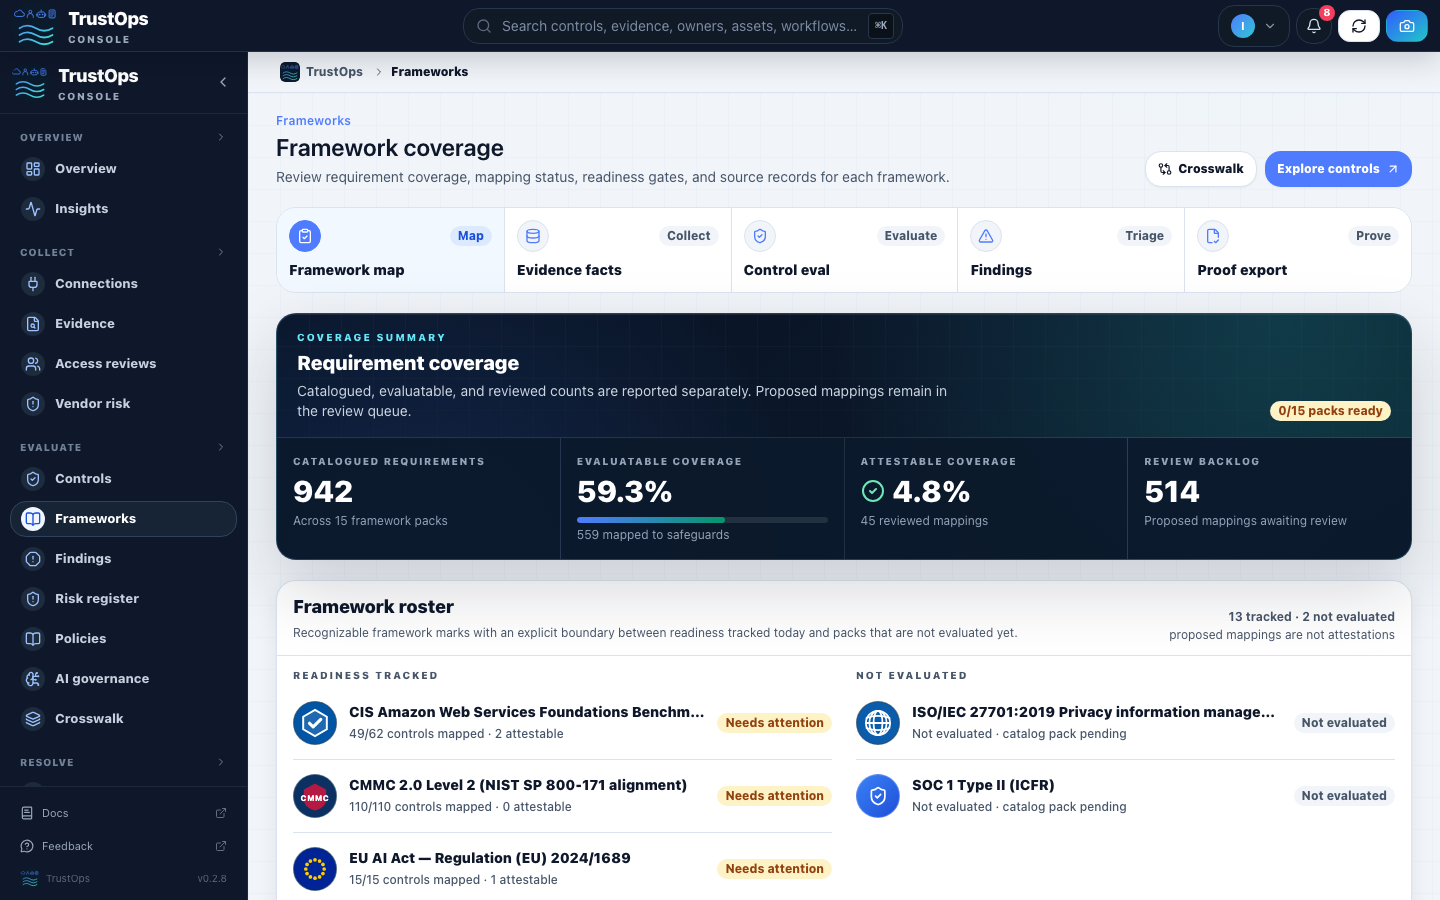
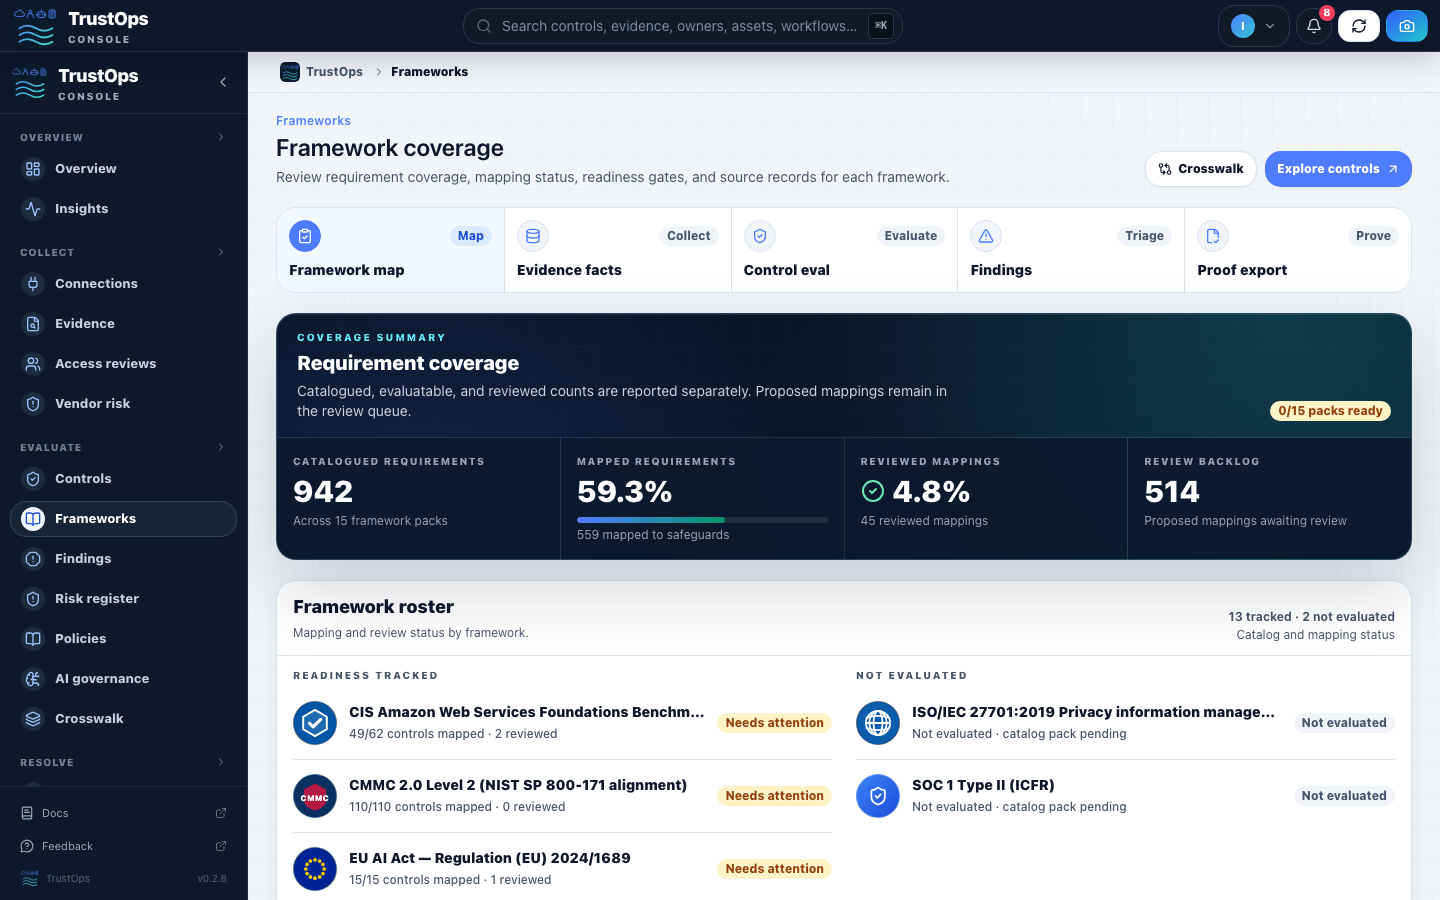
fix: align framework labels and offline smoke verification

diff --git a/app/web/src/app/frameworks/page.tsx b/app/web/src/app/frameworks/page.tsx
@@ -112,7 +112,7 @@ function Row({
       <div className="grid gap-3">
         <div>
           <div className="flex items-center justify-between gap-3 text-xs">
-            <span className="font-black text-ink">Evaluatable</span>
+            <span className="font-black text-ink">Mapped</span>
             <span className="text-muted">
               <b className="text-ink">{evaluatablePct}%</b> · {evaluatableCount}
               /{seededCount}
@@ -127,7 +127,7 @@ function Row({
         </div>
         <div>
           <div className="flex items-center justify-between gap-3 text-xs">
-            <span className="font-black text-ink">Attestable</span>
+            <span className="font-black text-ink">Reviewed</span>
             <span className="text-muted">
               <b className="text-ink">{attestablePct}%</b> · {attestableCount}/
               {seededCount}
@@ -574,7 +574,7 @@ function FrameworksPageContent() {
           </div>
           <div className="bg-[#09182a]/95 p-4">
             <div className="text-[10px] font-black uppercase tracking-[0.14em] text-slate-400">
-              Evaluatable coverage
+              Mapped requirements
             </div>
             <div className="mt-1 text-3xl font-black text-white">
               {coverageSummary
@@ -596,7 +596,7 @@ function FrameworksPageContent() {
           </div>
           <div className="bg-[#09182a]/95 p-4">
             <div className="text-[10px] font-black uppercase tracking-[0.14em] text-slate-400">
-              Attestable coverage
+              Reviewed mappings
             </div>
             <div className="mt-1 flex items-center gap-2 text-3xl font-black text-white">
               <CheckCircle2 className="h-6 w-6 text-emerald-300" />

diff --git a/app/web/src/components/framework/FrameworkRoster.tsx b/app/web/src/components/framework/FrameworkRoster.tsx
@@ -45,7 +45,7 @@ function FrameworkLine({
         <div className="mt-0.5 truncate text-xs font-medium leading-5 text-slate-600">
           {notEvaluated
             ? `Not evaluated · ${total ? `${total} controls in catalog` : "catalog pack pending"}`
-            : `${mapped}/${total} controls mapped · ${attestable} attestable`}
+            : `${mapped}/${total} controls mapped · ${attestable} reviewed`}
         </div>
       </div>
       <Badge
@@ -85,17 +85,14 @@ export function FrameworkRoster({ frameworks, coverage, readiness }: Props) {
         <div>
           <h2 className="text-lg font-black text-ink">Framework roster</h2>
           <p className="mt-0.5 max-w-3xl text-xs leading-5 text-muted">
-            Recognizable framework marks with an explicit boundary between
-            readiness tracked today and packs that are not evaluated yet.
+            Mapping and review status by framework.
           </p>
         </div>
         <div className="text-right text-xs font-bold text-muted">
           <div>
             {evaluated.length} tracked · {notEvaluated.length} not evaluated
           </div>
-          <div className="mt-0.5 font-normal">
-            proposed mappings are not attestations
-          </div>
+          <div className="mt-0.5 font-normal">Catalog and mapping status</div>
         </div>
       </div>
       <div className="grid gap-5 px-4 pb-3 md:grid-cols-2 md:gap-6">

diff --git a/app/web/e2e/framework-coverage-workflow.spec.ts b/app/web/e2e/framework-coverage-workflow.spec.ts
@@ -12,8 +12,10 @@ test.describe("framework coverage workflow", () => {
     await expect(portfolio).toBeVisible({ timeout: 20_000 });
     await expect(portfolio.getByText("Coverage summary")).toBeVisible();
     await expect(portfolio.getByText("Catalogued requirements")).toBeVisible();
-    await expect(portfolio.getByText("Evaluatable coverage")).toBeVisible();
-    await expect(portfolio.getByText("Attestable coverage")).toBeVisible();
+    await expect(portfolio.getByText("Mapped requirements")).toBeVisible();
+    await expect(
+      portfolio.getByText("Reviewed mappings", { exact: true }),
+    ).toBeVisible();
     await expect(
       portfolio.getByText("Review backlog", { exact: true }),
     ).toBeVisible();
